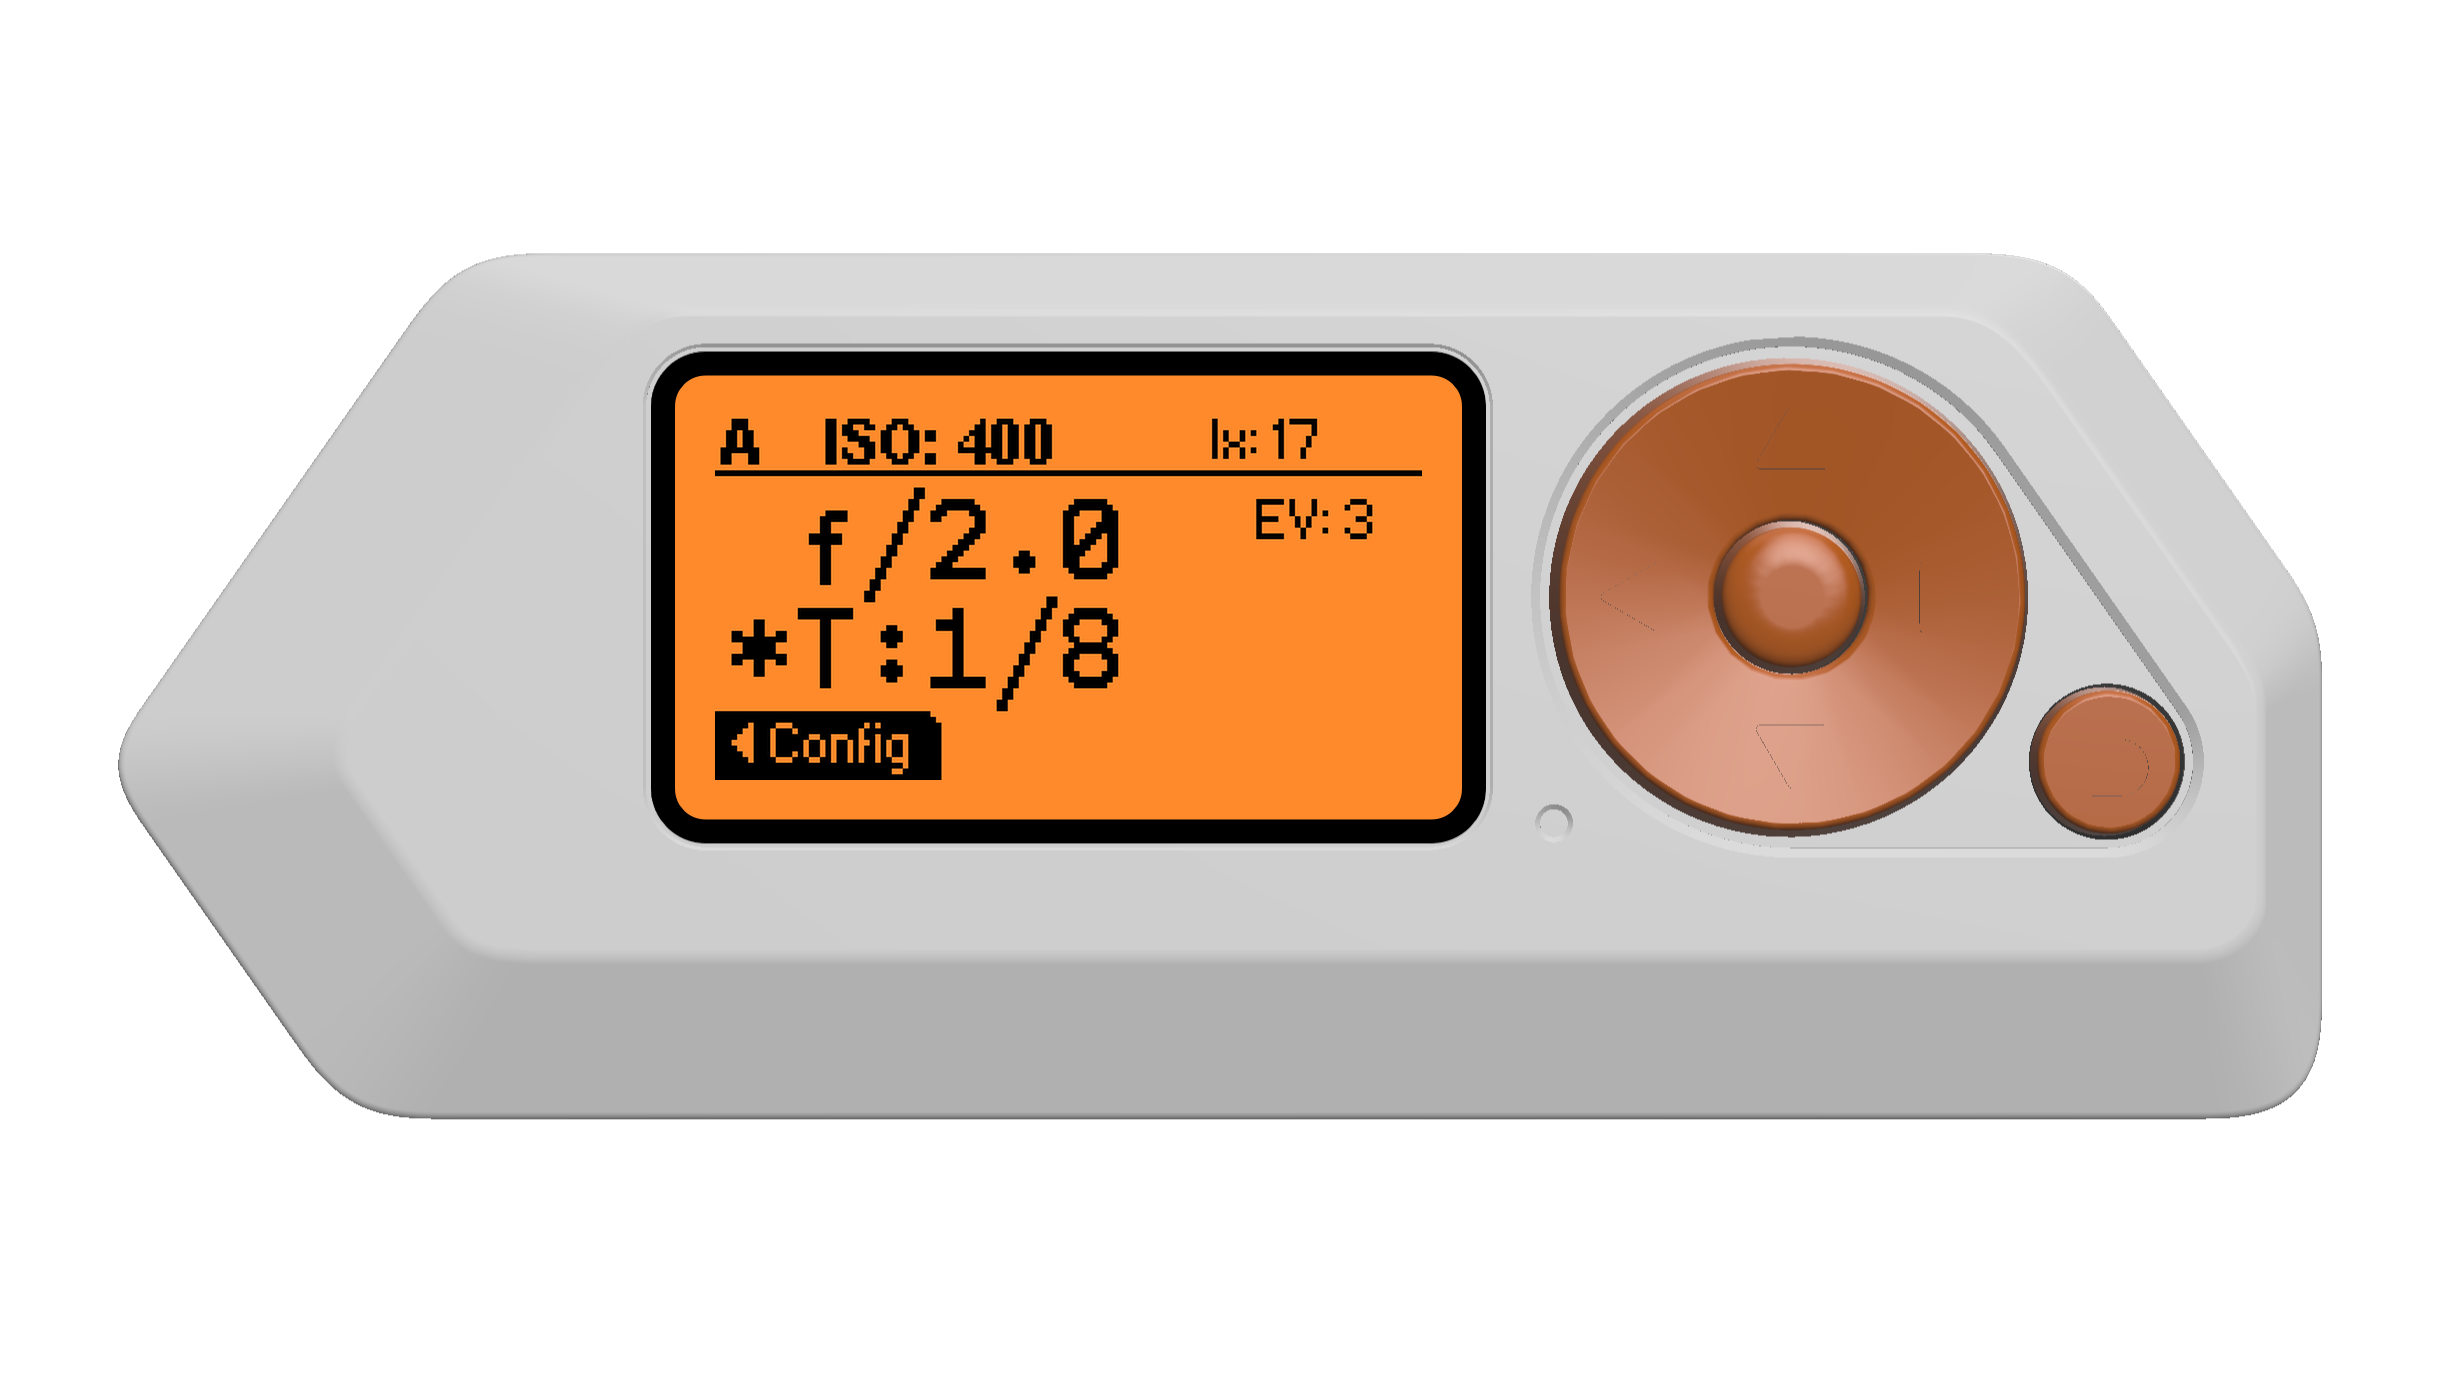
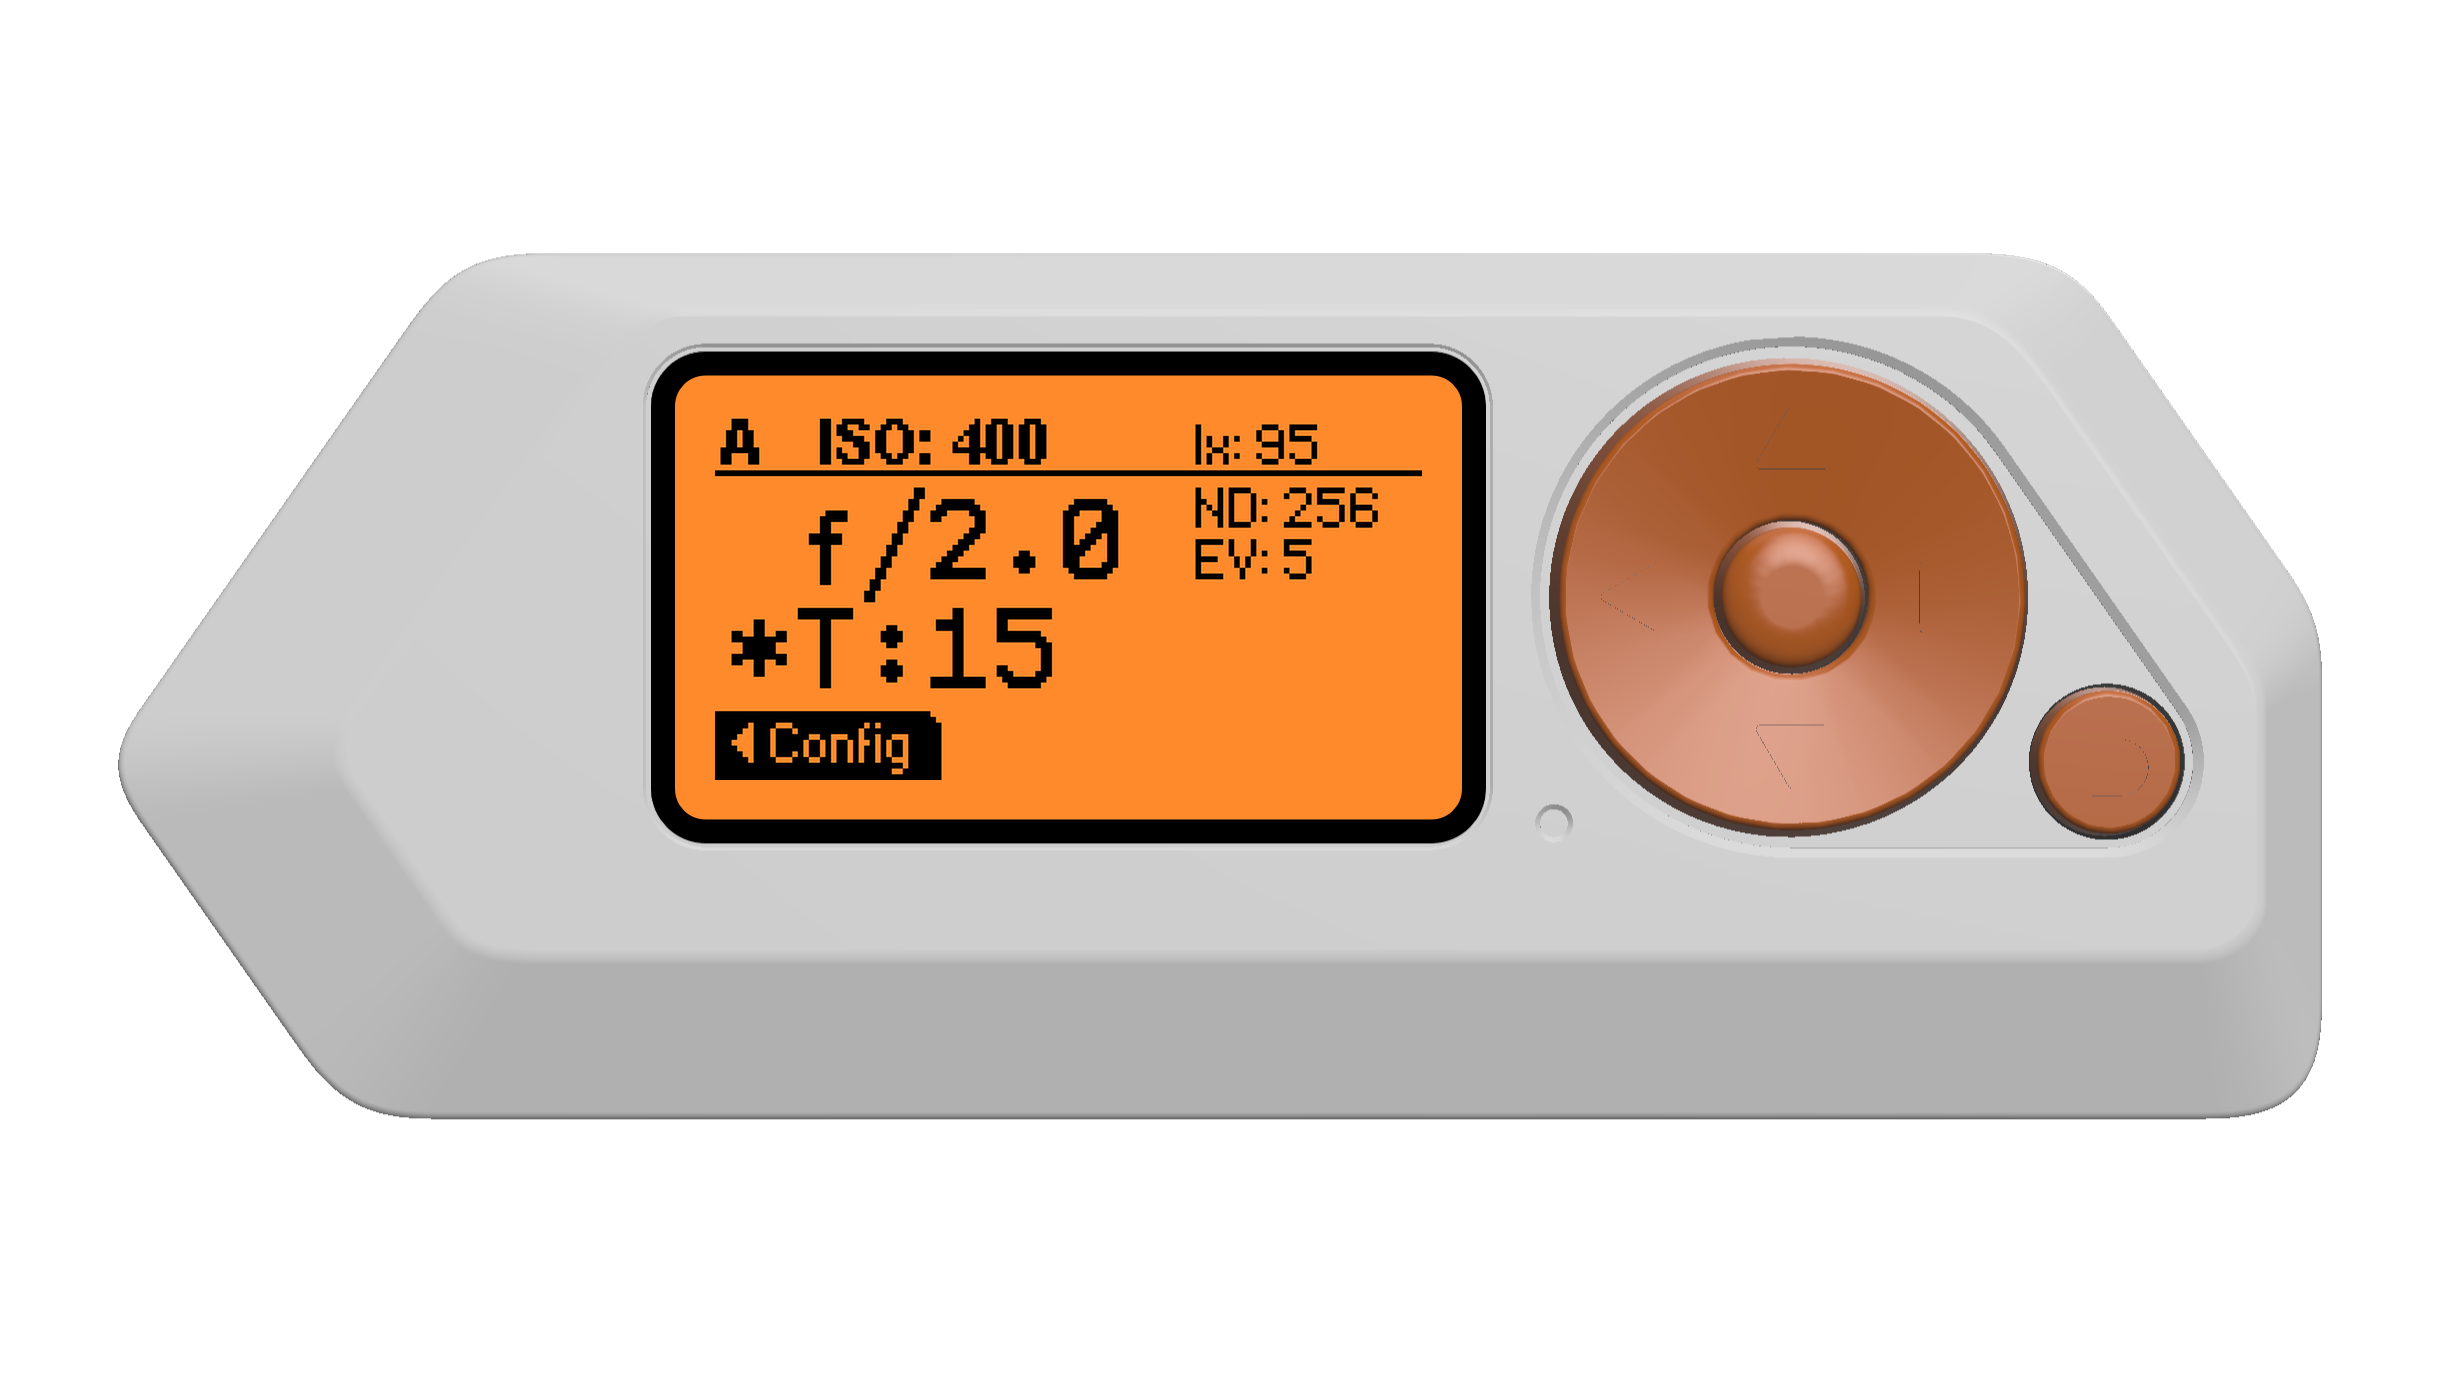
Update readme and gui screenshot

Changed region(s): [[0.4672, 0.3059, 0.5607, 0.4283], [0.4049, 0.4283, 0.4672, 0.52], [0.3115, 0.3059, 0.4361, 0.3365]]

diff --git a/README.md b/README.md
@@ -15,16 +15,16 @@ App inspired by [lightmeter](https://github.com/vpominchuk/lightmeter) project f
 - [x] ISO correction 
 - [ ] Info screen
 - [ ] Pinout screen
-- [ ] ND correction
+- [x] ND correction
 - [ ] Popup window when no sensor detected
 - [ ] Flash light metering
 - [ ] Cleanup code
-- [ ] Draw suitable icon
+- [x] Draw suitable icon
 
 ## Wiring
 
+```
 C0 -> SCL
-
 C1 -> SDA
-
 GND -> GND
+```
